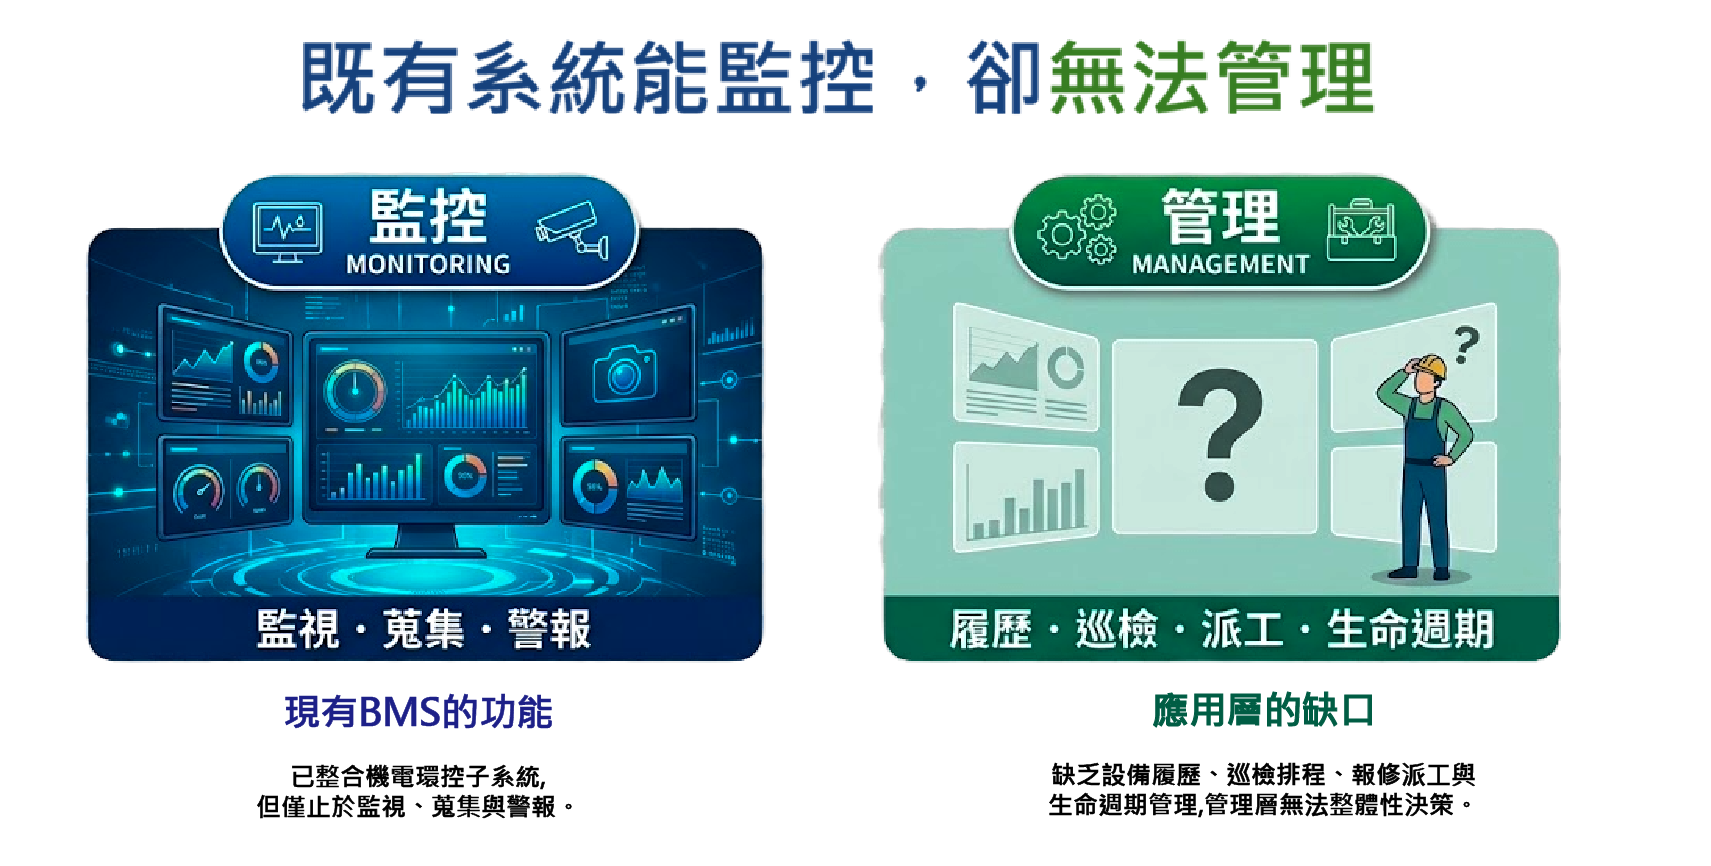
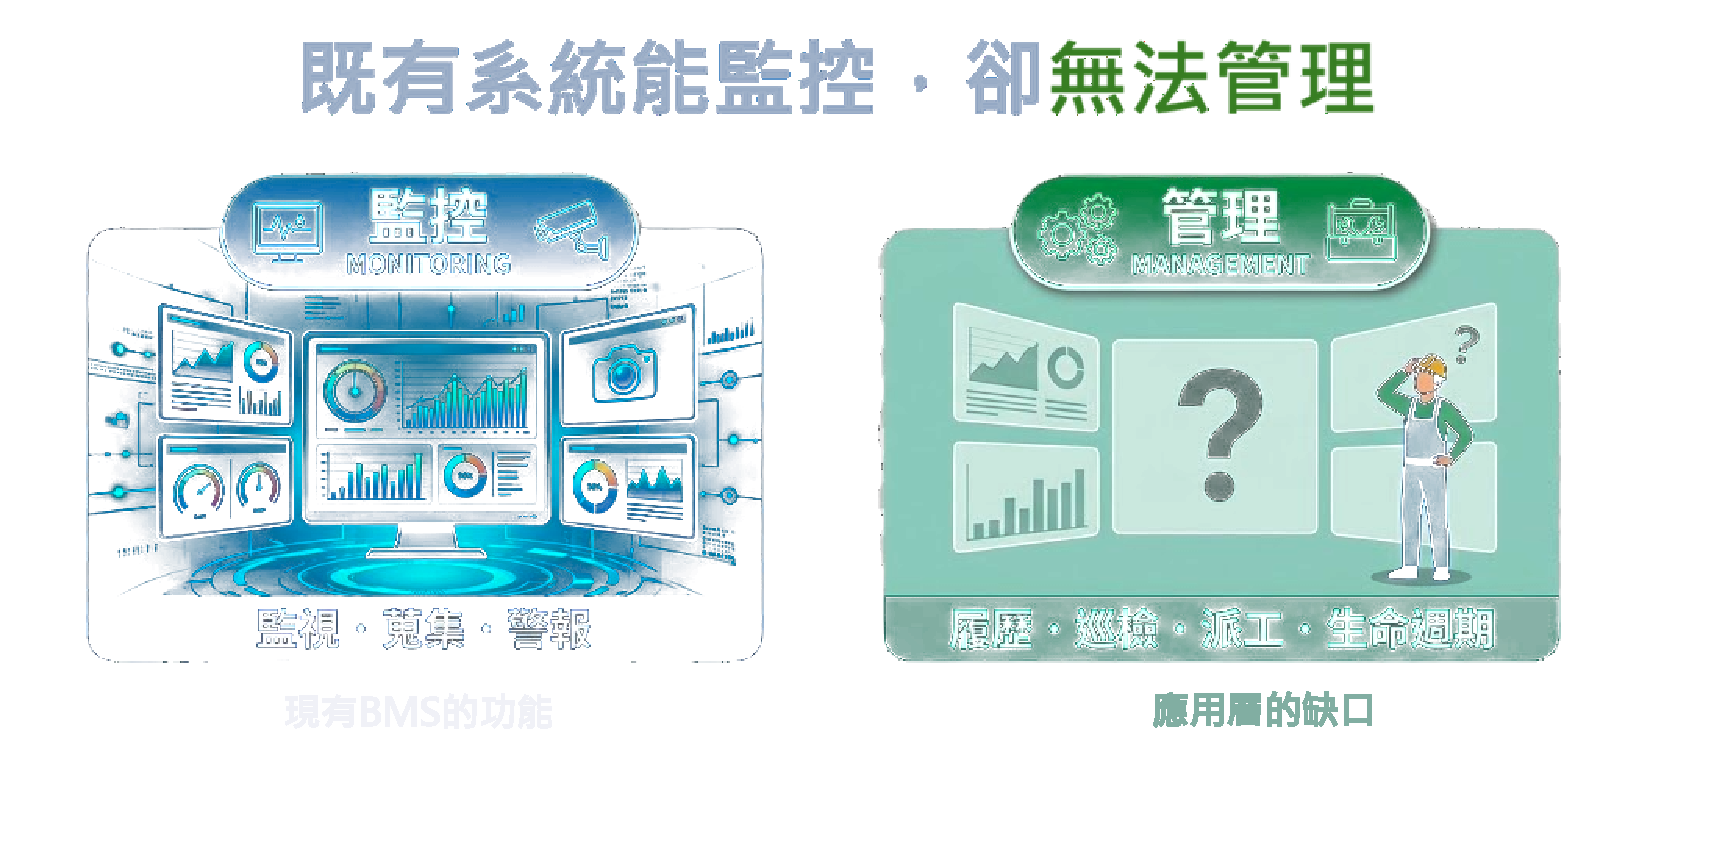
slide 3: replace with 6.png (de-bg, 70%, blend)

diff --git a/index.html b/index.html
@@ -336,7 +336,7 @@ table.deck-table tr:last-child td{border-bottom:none;}
 </section>
 
 <section class="slide" data-section="引起動機" data-slide="3" style="background:var(--bg); display:flex; align-items:center; justify-content:center;">
-  <img src="5.png" alt="" style="width:70%; height:auto; border-radius:16px; box-shadow:0 4px 40px rgba(24,24,27,0.15);">
+  <img src="6.png" alt="" style="width:70%; height:auto; border-radius:16px; box-shadow:0 4px 40px rgba(24,24,27,0.15);">
 </section>
 
 <section class="slide" id="s3" data-section="引起動機" data-slide="4">